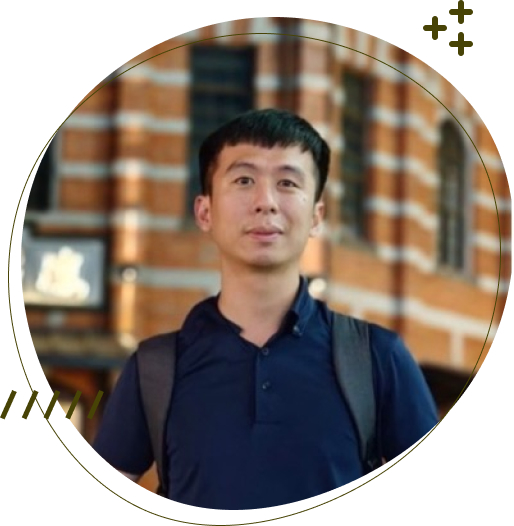
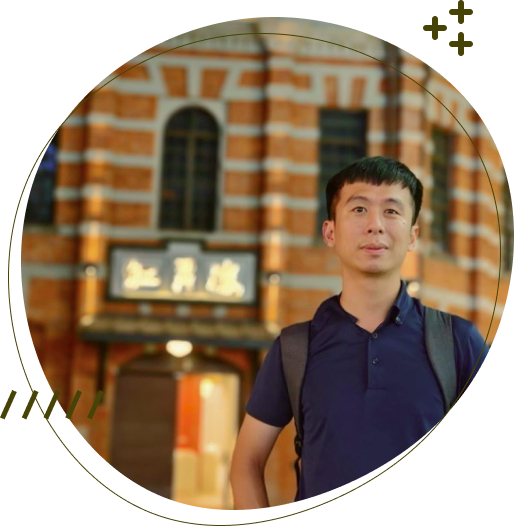
新增about字樣、重傳avator

diff --git a/style.css b/style.css
@@ -70,6 +70,20 @@ nav a {
   flex-shrink: 0;
 }
 
+.subtitle {
+  position: absolute;
+  top: 979px;
+  left: 87px;
+}
+
+.text-wrapper {
+  color: var(--Too-Light-Yellow, #f7f197);
+  font-family: Poppins;
+  font-size: 100px;
+  font-style: normal;
+  font-weight: 800;
+  line-height: 116px; /* 116% */
+}
 /* .image .unsplash {
     position: fixed;
     width: 493px;

diff --git a/index.html b/index.html
@@ -73,7 +73,7 @@
   </header>
   <main>
     <section>
-      <div class="label">
+      <div class="subtitle">
         <div class="text-wrapper">about.</div>
       </div>
     </section>
